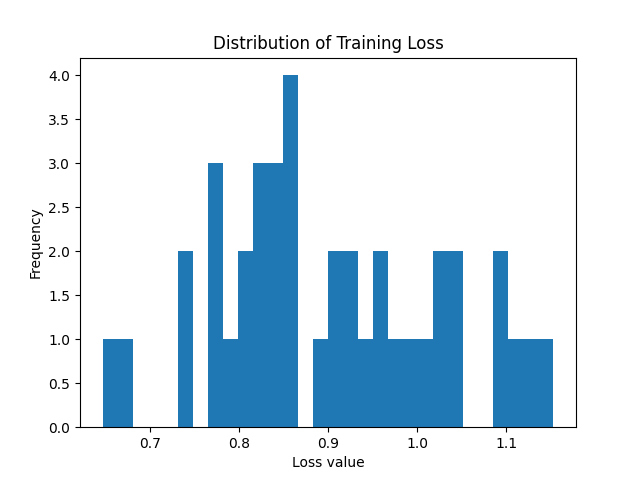
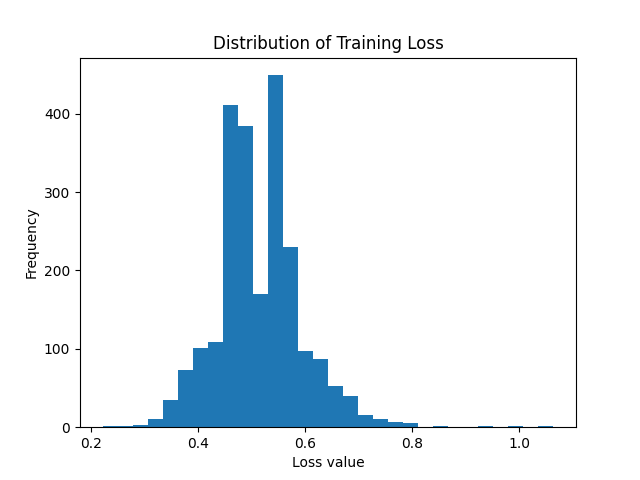
Large dataset results

diff --git a/Software/PyTorch/code/cnn/train2.py b/Software/PyTorch/code/cnn/train2.py
@@ -14,12 +14,12 @@ from cnn2 import ConvNeXtBinary
 from sklearn.metrics import f1_score
 from splitting import get_file_based_splits
 
-BATCH_SIZE = 128
+BATCH_SIZE = 4
 EPOCHS = 10
-LEARNING_RATE = .001 #adjust?
+LEARNING_RATE = 5e-5 #adjust?
 
-ANNOTATIONS_FILE = "/Users/saranorouzinia/Documents/Anomaly Sound Detection/AnomalySoundDetection/Software/Perch2.0/V2/CSV/cosine_final_synced.csv"
-AUDIO_DIR = "/Users/saranorouzinia/Documents/Anomaly Sound Detection/audio"
+ANNOTATIONS_FILE = "/home/GTL/snorouzi/Documents/Anomaly Sound Detection/AnomalySoundDetection/Software/Perch2.0/V2/CSV/cosine_final_synced.csv"
+AUDIO_DIR = "/home/GTL/snorouzi/Documents/Anomaly Sound Detection/audio"
 SAMPLE_RATE = 32000 #1 sec
 NUM_SAMPLES = 32000 * 5 #5 seconds
 
@@ -74,7 +74,7 @@ def validate(model, data_loader, loss_fn, device):
 
     for t in thresholds:
         preds = (all_probs >= t).astype(int)
-        f1 = f1_score(all_targets, preds)
+        f1 = f1_score(all_targets, preds, average="weighted", zero_division=0)
 
         if f1 > best_f1:
             best_f1 = f1
@@ -90,7 +90,7 @@ def validate(model, data_loader, loss_fn, device):
     return avg_loss, weighted_f1, best_thresh
 
 
-def train(model, data_loader, loss_fn, optimiser, device, epochs):
+def train(model, data_loader, val_loader, loss_fn, optimiser, device, epochs):
     best_f1 = 0.0
     all_epoch_losses = []
 
@@ -99,6 +99,9 @@ def train(model, data_loader, loss_fn, optimiser, device, epochs):
         model.train()
         epoch_losses = []
         train_one_epoch(model, data_loader, loss_fn, optimiser, device, epoch_losses)
+
+        val_loss, val_f1, thresh = validate(model, val_loader, loss_fn, device)
+        print(f"Epoch {i+1} | Val Loss: {val_loss:.4f} | Val F1: {val_f1:.4f}")
 
         all_epoch_losses.append(epoch_losses)
 
@@ -129,7 +132,7 @@ if __name__ == "__main__":
                             mel_spectrogram, 
                             SAMPLE_RATE,
                             NUM_SAMPLES,
-                            device)
+                            device="cpu")
 
 
     #generator = torch.Generator().manual_seed(42)
@@ -137,20 +140,29 @@ if __name__ == "__main__":
     #    usd, [train_size, val_size, test_size], generator=generator
     #)
  # Split dataset (train/test only)
-    train_dataset, test_dataset = get_file_based_splits(usd, train_size=0.7, test_size=0.3, random_state=42)
+    train_val_dataset, test_dataset = get_file_based_splits(usd, train_size=0.7, test_size=0.3, random_state=42)
+    train_dataset, val_dataset = get_file_based_splits(train_val_dataset, train_size=0.8, test_size=0.2, random_state=42)
+    
     test_labels = [int(usd[i][1].item()) for i in test_dataset.indices]
     print("Test class counts:", np.bincount(test_labels))
 
     # Create loaders
     train_labels = [int(usd[i][1].item()) for i in train_dataset.indices]
     class_counts = np.bincount(train_labels)
+    
     class_weights = [1.0 / class_counts[label] for label in train_labels]
 
     #just on train dataset
     #sampler = torch.utils.data.WeightedRandomSampler(class_weights, num_samples=len(class_weights), replacement=True)
-    pos_weight = torch.tensor([class_counts[0] / class_counts[1]]).to(device)
+    if class_counts[1] < class_counts[0]:
+        pos_weight = torch.tensor([class_counts[0] / class_counts[1]]).to(device)
+    else:
+        pos_weight = torch.tensor([1.0]).to(device)
+        print("Warning: Anomaly is majority — pos_weight won't help, consider the sampler")
+    
     train_data_loader = DataLoader(train_dataset, batch_size=BATCH_SIZE, shuffle=True) #sampler is only for training
     test_data_loader  = DataLoader(test_dataset,  batch_size=BATCH_SIZE, shuffle=False)
+    val_data_loader = DataLoader(val_dataset, batch_size=BATCH_SIZE, shuffle=False)
 
 
     print(f"Training using {device} device")
@@ -167,12 +179,12 @@ if __name__ == "__main__":
     optimiser = torch.optim.Adam(
         cnn.parameters(), #all parameters - unfrozen backbone
         lr=1e-4,
-        weight_decay=1e-5
+        weight_decay=1e-4
     ) #updates the model's weights to minimize loss
 
     #scheduler = torch.optim.lr_scheduler.CosineAnnealingLR(optimiser, T_max=EPOCHS)
 
-    all_epoch_losses = train(cnn, train_data_loader, loss_fn, optimiser, device, EPOCHS)
+    all_epoch_losses = train(cnn, train_data_loader, val_data_loader, loss_fn, optimiser, device, EPOCHS)
 
     print("Model trained and stored at cnnnet2.pth")
     test_loss, test_f1, best_thresh = validate(cnn, test_data_loader, loss_fn, device)

diff --git a/Software/PyTorch/code/animalsounddataset2.py b/Software/PyTorch/code/animalsounddataset2.py
@@ -4,18 +4,24 @@ import pandas as pd
 import torchaudio
 import os
 import re
+import torch.nn as nn
+
 class AnimalSoundDataset(Dataset):
     def __init__(self, 
                  annotations_file, 
                  audio_dir, 
                  transformation, 
-                 target_sample_rate, 
+                 target_sample_rate,
                  num_samples,
                  device):
         self.annotations = self._load_annotations(annotations_file)
         self.audio_dir = audio_dir
         self.device = device
-        self.transformation = transformation.to(self.device) 
+
+        self.transformation = nn.Sequential(
+            transformation,
+            torchaudio.transforms.AmplitudeToDB(stype='power', top_db=80)
+        ).to(self.device)
 
         self.target_sample_rate = target_sample_rate
         self.num_samples = num_samples
@@ -51,9 +57,9 @@ class AnimalSoundDataset(Dataset):
         frame_offset = int(start_time * self.target_sample_rate) #five seconds
         num_frames = self.num_samples
 
-
         signal, sr = torchaudio.load(audio_sample_path, frame_offset=frame_offset, num_frames=num_frames) #signal and sample rate
         signal = signal.to(self.device)
+        #standardizing
         signal = self._resample_if_necessary(signal, sr)
         signal = self._mix_down_if_necessary(signal) #mix it down to mono
         signal = self._cut_if_necessary(signal) #too many samples
@@ -61,8 +67,13 @@ class AnimalSoundDataset(Dataset):
         signal = self.transformation(signal) #pass the signal into the mel spectrogram func
         # mel spectrogram: (1, 64, T)
 
-        signal = torch.log(signal + 1e-9)
+        # 3. Normalize the tensor to [0, 1] range
+        # Decibel values are usually negative (e.g., -80 to 0)
+        dist_min, dist_max = signal.min(), signal.max()
+        if dist_max - dist_min > 0:
+            signal = (signal - dist_min) / (dist_max - dist_min)
 
+        # Resize for ConvNeXt (224x224)
         signal = torch.nn.functional.interpolate(
             signal.unsqueeze(0), size=(224, 224), mode='bilinear', align_corners=False
         ).squeeze(0)  # (1, 224, 224)
@@ -125,8 +136,8 @@ class AnimalSoundDataset(Dataset):
         return self.annotations.iloc[index, 6]
 
 if __name__ == "__main__":
-    ANNOTATIONS_FILE = "/Users/saranorouzinia/Documents/Anomaly Sound Detection/AnomalySoundDetection/Software/Perch2.0/V2/CSV/cosine_final_synced.csv"
-    AUDIO_DIR = "/Users/saranorouzinia/Documents/Anomaly Sound Detection/audio"
+    ANNOTATIONS_FILE = "/home/GTL/snorouzi/Documents/Anomaly Sound Detection/AnomalySoundDetection/Software/Perch2.0/V2/CSV/cosine_final_synced.csv"
+    AUDIO_DIR = "/home/GTL/snorouzi/Documents/Anomaly Sound Detection/audio"
     SAMPLE_RATE = 22050
     NUM_SAMPLES = 22050 * 5 # 5 seconds if NUM_SAMPLES = 5 * sample_rate
     
@@ -149,8 +160,9 @@ if __name__ == "__main__":
                             mel_spectrogram, 
                             SAMPLE_RATE,
                             NUM_SAMPLES,
-                            device)
+                            device="cpu")
 
     print(f"There are {len(usd)} samples in the dataset.")
+    print("Class counts:", usd.annotations.iloc[:, 6].value_counts()[["Void", "Anomaly"]].fillna(0).to_dict())
     signal, label = usd[0]
     a = 1

diff --git a/Software/PyTorch/code/cnn/splitting.py b/Software/PyTorch/code/cnn/splitting.py
@@ -1,12 +1,22 @@
 import numpy as np
 import re
 from torch.utils.data import Subset
+from torch.utils.data import Subset as TorchSubset
+
+def _get_annotations_and_indices(dataset):
+    """Unwrap a Subset to get (base_dataset, list_of_indices_into_base)."""
+    if isinstance(dataset, TorchSubset):
+        return dataset.dataset.annotations, dataset.indices
+    else:
+        return dataset.annotations, list(range(len(dataset)))
 
 def get_file_based_splits(dataset, train_size=0.8, test_size=0.2, random_state=42):
+    annotations, available_indices = _get_annotations_and_indices(dataset)
+
     # 1. Group by base file
     file_to_indices = {}
-    for idx in range(len(dataset)):
-        filename = dataset.annotations.iloc[idx, 0]
+    for idx in available_indices:
+        filename = annotations.iloc[idx, 0]
         base_file = re.sub(r'_part\d+\.wav$', '.wav', filename)
         if base_file not in file_to_indices:
             file_to_indices[base_file] = []
@@ -20,11 +30,12 @@ def get_file_based_splits(dataset, train_size=0.8, test_size=0.2, random_state=4
     # 3. Split files into train and test
     n = len(file_names)
     n_train = int(n * train_size)
-    train_files = set(file_names[:n_train])
-    test_files  = set(file_names[n_train:])
+    train_files = file_names[:n_train]
+    test_files  = file_names[n_train:]
 
     # 4. Expand file splits to segment indices
     train_indices = [idx for f in train_files for idx in file_to_indices[f]]
-    test_indices  = [idx for f in test_files for idx in file_to_indices[f]]
+    test_indices  = [idx for f in test_files  for idx in file_to_indices[f]]
 
-    return Subset(dataset, train_indices), Subset(dataset, test_indices)
+    root = dataset.dataset if isinstance(dataset, TorchSubset) else dataset
+    return Subset(root, train_indices), Subset(root, test_indices)

diff --git a/Software/PyTorch/code/cnn/inference2.py b/Software/PyTorch/code/cnn/inference2.py
@@ -39,6 +39,10 @@ def evaluate(model, data_loader, device, threshold):
 
 def predict(model, input, target, class_mapping):
     model.eval() #pytorch method that switches the model from training mode to evaluation mode
+    device = next(model.parameters()).device #get the device of the model parameters (cpu or gpu)
+    input = input.to(device)
+    target = target.to(device)
+
     with torch.no_grad(): # makes it s    class_mapping = {0: "RAS", 1: "ANOMALIE"}o that the model doesn't calculate the grad because it is
                     # not needed when we are not training
         predictions = model(input)
@@ -56,9 +60,11 @@ def predict(model, input, target, class_mapping):
 
 
 if __name__ == "__main__":
-    #load back the model
-    cnn = ConvNeXtBinary()
-    checkpoint = torch.load("cnnnet2.pth", map_location=torch.device('cpu'), weights_only=False) #loading the model we stored
+    device = torch.device("cuda" if torch.cuda.is_available() else "cpu")
+    print("Using device:", device)
+    #load back the modeltorch.device
+    cnn = ConvNeXtBinary().to(device)
+    checkpoint = torch.load("cnnnet2.pth", map_location=device, weights_only=False) #loading the model we stored
     cnn.load_state_dict(checkpoint["model_state_dict"]) #loading the dict into the model
     BEST_THRESHOLD = checkpoint["threshold"]
 
@@ -95,7 +101,7 @@ if __name__ == "__main__":
 
     test_loader = DataLoader(test_dataset, batch_size=32, shuffle=False) #the size of this batch size determines how fast it trains (larger == faster)
 
-    predictions, targets, probabilities = evaluate(cnn, test_loader, "cpu", threshold=BEST_THRESHOLD) #rerun using saved BEST_THRESHOLD
+    predictions, targets, probabilities = evaluate(cnn, test_loader, device, threshold=BEST_THRESHOLD) #rerun using saved BEST_THRESHOLD
 
     # Compute and print F1 score
     f1 = f1_score(targets, predictions, average="weighted")